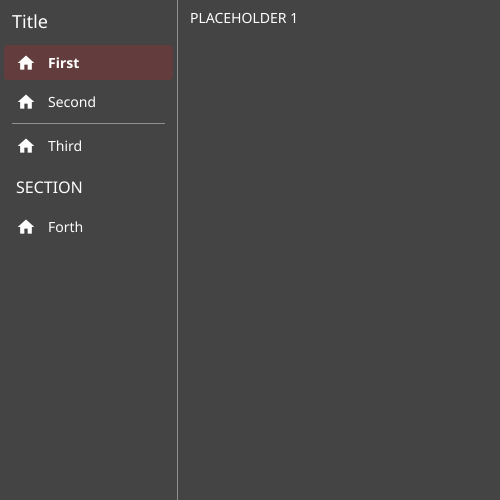
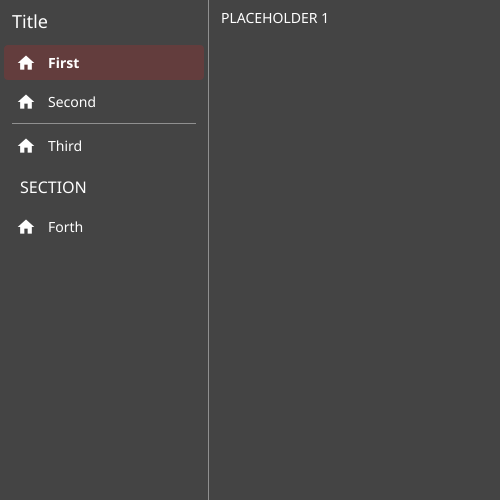
feat: use primarily custom corp wallet names (#197)

diff --git a/internal/app/ui/desktopui.go b/internal/app/ui/desktopui.go
@@ -74,8 +74,8 @@ func NewDesktopUI(bu *baseUI) *DesktopUI {
 	}
 
 	u.defineShortcuts()
-	characterPageBars := newPageBarCollectionForCharacters(u)
-	corporationPageBars := newPageBarCollectionForCorporations(u)
+	characterPageBars := NewPageBarCollectionForCharacters(u)
+	corporationPageBars := NewPageBarCollectionForCorporations(u)
 
 	formatBadge := func(v, mx int) string {
 		if v == 0 {
@@ -220,23 +220,12 @@ func NewDesktopUI(bu *baseUI) *DesktopUI {
 	homeNav.MinWidth = minNavCharacterWidth
 
 	// current character
-	makePageWithPageBarForCharacter := func(title string, content fyne.CanvasObject, buttons ...*widget.Button) fyne.CanvasObject {
-		bar := characterPageBars.NewPageBar(title, buttons...)
-		return container.NewBorder(
-			bar,
-			nil,
-			nil,
-			nil,
-			content,
-		)
-	}
-
 	var characterNav *iwidget.NavDrawer
 
 	characterMailNav := iwidget.NewNavPage(
 		"Mail",
 		theme.MailComposeIcon(),
-		makePageWithPageBarForCharacter("Mail", u.characterMail),
+		NewPageBarPage(characterPageBars, "Mail", u.characterMail),
 	)
 	u.characterMail.onUpdate = func(count int) {
 		fyne.Do(func() {
@@ -248,7 +237,7 @@ func NewDesktopUI(bu *baseUI) *DesktopUI {
 	characterCommunicationsNav := iwidget.NewNavPage(
 		"Communications",
 		theme.NewThemedResource(icons.MessageSvg),
-		makePageWithPageBarForCharacter("Communications", u.characterCommunications),
+		NewPageBarPage(characterPageBars, "Communications", u.characterCommunications),
 	)
 	u.characterCommunications.OnUpdate = func(count optional.Optional[int]) {
 		var s string
@@ -265,7 +254,8 @@ func NewDesktopUI(bu *baseUI) *DesktopUI {
 	characterSkillsNav := iwidget.NewNavPage(
 		"Skills",
 		theme.NewThemedResource(icons.SchoolSvg),
-		makePageWithPageBarForCharacter(
+		NewPageBarPage(
+			characterPageBars,
 			"Skills",
 			container.NewAppTabs(
 				container.NewTabItem("Training Queue", u.characterSkillQueue),
@@ -283,18 +273,18 @@ func NewDesktopUI(bu *baseUI) *DesktopUI {
 
 	characterWalletNav := iwidget.NewNavPage("Wallet",
 		theme.NewThemedResource(icons.CashSvg),
-		makePageWithPageBarForCharacter("Wallet", u.characterWallet),
+		NewPageBarPage(characterPageBars, "Wallet", u.characterWallet),
 	)
 	characterAssetsNav := iwidget.NewNavPage(
 		"Assets",
 		theme.NewThemedResource(icons.Inventory2Svg),
-		makePageWithPageBarForCharacter("Assets", u.characterAsset),
+		NewPageBarPage(characterPageBars, "Assets", u.characterAsset),
 	)
 	characterNav = iwidget.NewNavDrawer(
 		iwidget.NewNavPage(
 			"Character Sheet",
 			theme.NewThemedResource(icons.PortraitSvg),
-			makePageWithPageBarForCharacter("Character Sheet", container.NewAppTabs(
+			NewPageBarPage(characterPageBars, "Character Sheet", container.NewAppTabs(
 				container.NewTabItem("Character", u.characterSheet),
 				container.NewTabItem("Corporation", u.characterCorporation),
 				container.NewTabItem("Augmentations", u.characterAugmentations),
@@ -321,27 +311,23 @@ func NewDesktopUI(bu *baseUI) *DesktopUI {
 			characterNav.SetItemBadge(characterAssetsNav, s)
 		})
 	}
-	// Corporation
-	makePageWithPageBarForCorporation := func(title string, content fyne.CanvasObject, buttons ...*widget.Button) fyne.CanvasObject {
-		bar := corporationPageBars.NewPageBar(title, buttons...)
-		return container.NewBorder(
-			bar,
-			nil,
-			nil,
-			nil,
-			content,
-		)
-	}
 
+	// Corporation
 	walletsNav := iwidget.NewNavSectionLabel("Wallets")
 	corpWalletItems := []*iwidget.NavItem{walletsNav}
 	corporationWalletNavs := make(map[app.Division]*iwidget.NavItem)
+	corporationWalletPages := make(map[app.Division]*PageBarPage)
 	for _, d := range app.Divisions {
 		name := d.DefaultWalletName()
+		corporationWalletPages[d] = NewPageBarPage(
+			corporationPageBars,
+			name,
+			u.corporationWallets[d],
+		)
 		corporationWalletNavs[d] = iwidget.NewNavPage(
 			name,
 			theme.NewThemedResource(icons.CashSvg),
-			makePageWithPageBarForCorporation(name, u.corporationWallets[d]),
+			corporationWalletPages[d],
 		)
 		corpWalletItems = append(corpWalletItems, corporationWalletNavs[d])
 	}
@@ -352,7 +338,7 @@ func NewDesktopUI(bu *baseUI) *DesktopUI {
 				iwidget.NewNavPage(
 					"Corporation Sheet",
 					theme.NewThemedResource(icons.StarCircleOutlineSvg),
-					makePageWithPageBarForCorporation("Corporation Sheet", container.NewAppTabs(
+					NewPageBarPage(corporationPageBars, "Corporation Sheet", container.NewAppTabs(
 						container.NewTabItem("Corporation", u.corporationSheet),
 						container.NewTabItem("Members", u.corporationMember),
 					)),
@@ -365,9 +351,15 @@ func NewDesktopUI(bu *baseUI) *DesktopUI {
 	corporationNav.MinWidth = minNavCharacterWidth
 
 	for _, d := range app.Divisions {
-		u.corporationWallets[d].onUpdate = func(balance string) {
+		u.corporationWallets[d].onBalanceUpdate = func(balance string) {
 			fyne.Do(func() {
 				corporationNav.SetItemBadge(corporationWalletNavs[d], balance)
+			})
+		}
+		u.corporationWallets[d].onNameUpdate = func(name string) {
+			fyne.Do(func() {
+				corporationNav.SetItemText(corporationWalletNavs[d], name)
+				corporationWalletPages[d].SetTitle(name)
 			})
 		}
 	}

diff --git a/internal/app/ui/pagebar.go b/internal/app/ui/pagebar.go
@@ -9,11 +9,47 @@ import (
 	"fyne.io/fyne/v2/layout"
 	"fyne.io/fyne/v2/theme"
 	"fyne.io/fyne/v2/widget"
+	kwidget "github.com/ErikKalkoken/fyne-kx/widget"
+
 	"github.com/ErikKalkoken/evebuddy/internal/app"
 	"github.com/ErikKalkoken/evebuddy/internal/app/icons"
 	"github.com/ErikKalkoken/evebuddy/internal/fynetools"
-	kwidget "github.com/ErikKalkoken/fyne-kx/widget"
 )
+
+type pageBarCollection interface {
+	NewPageBar(title string, buttons ...*widget.Button) *pageBar
+}
+
+type PageBarPage struct {
+	widget.BaseWidget
+
+	pb      *pageBar
+	content fyne.CanvasObject
+}
+
+func NewPageBarPage(cpb pageBarCollection, title string, content fyne.CanvasObject, buttons ...*widget.Button) *PageBarPage {
+	a := &PageBarPage{
+		pb:      cpb.NewPageBar(title, buttons...),
+		content: content,
+	}
+	a.ExtendBaseWidget(a)
+	return a
+}
+
+func (a *PageBarPage) CreateRenderer() fyne.WidgetRenderer {
+	c := container.NewBorder(
+		a.pb,
+		nil,
+		nil,
+		nil,
+		a.content,
+	)
+	return widget.NewSimpleRenderer(c)
+}
+
+func (a *PageBarPage) SetTitle(text string) {
+	a.pb.SetTitle(text)
+}
 
 type pageBar struct {
 	widget.BaseWidget
@@ -36,6 +72,10 @@ func newPageBar(title string, icon fyne.Resource, buttons ...*widget.Button) *pa
 	}
 	w.ExtendBaseWidget(w)
 	return w
+}
+
+func (w *pageBar) SetTitle(text string) {
+	w.title.SetText(text)
 }
 
 func (w *pageBar) SetIcon(r fyne.Resource) {
@@ -63,7 +103,7 @@ type pageBarCollectionForCharacter struct {
 	u            *DesktopUI
 }
 
-func newPageBarCollectionForCharacters(u *DesktopUI) *pageBarCollectionForCharacter {
+func NewPageBarCollectionForCharacters(u *DesktopUI) *pageBarCollectionForCharacter {
 	fallback := icons.Characterplaceholder64Jpeg
 	icon, err := fynetools.MakeAvatar(fallback)
 	if err != nil {
@@ -120,7 +160,7 @@ type pageBarCollectionForCorporation struct {
 	u            *DesktopUI
 }
 
-func newPageBarCollectionForCorporations(u *DesktopUI) *pageBarCollectionForCorporation {
+func NewPageBarCollectionForCorporations(u *DesktopUI) *pageBarCollectionForCorporation {
 	fallback := icons.Corporationplaceholder64Png
 	icon, err := fynetools.MakeAvatar(fallback)
 	if err != nil {

diff --git a/internal/widget/navdrawer.go b/internal/widget/navdrawer.go
@@ -84,11 +84,12 @@ func (w *NavDrawer) makeList() *widget.List {
 			spacer := canvas.NewRectangle(color.Transparent)
 			spacer.SetMinSize(fyne.NewSize(p, 1))
 			icon := widget.NewIcon(iconBlankSvg)
-			text := widget.NewLabel("Template")
+			title := widget.NewLabel("Template")
+			title.Truncation = fyne.TextTruncateEllipsis
 			badge := widget.NewLabel("999+")
 			return container.NewStack(
 				container.New(layout.NewCustomPaddedLayout(0, 0, p, p),
-					container.NewHBox(spacer, icon, text, layout.NewSpacer(), badge),
+					container.NewBorder(nil, nil, container.NewHBox(spacer, icon), badge, title),
 				),
 				container.New(layout.NewCustomPaddedLayout(0, 0, 2*p, 2*p),
 					widget.NewSeparator(),
@@ -110,11 +111,12 @@ func (w *NavDrawer) makeList() *widget.List {
 				separator.Hide()
 				main.Show()
 			}
-			box := main.(*fyne.Container).Objects[0].(*fyne.Container).Objects
+			border := main.(*fyne.Container).Objects[0].(*fyne.Container).Objects
+			title := border[0].(*widget.Label)
+			box := border[1].(*fyne.Container).Objects
 			spacer := box[0]
 			icon := box[1].(*widget.Icon)
-			title := box[2].(*widget.Label)
-			badge := box[4].(*widget.Label)
+			badge := border[2].(*widget.Label)
 			showIcon := func() {
 				var r fyne.Resource
 				if it.isDisabled {

diff --git a/internal/app/ui/mobileui.go b/internal/app/ui/mobileui.go
@@ -234,14 +234,13 @@ func NewMobileUI(bu *baseUI) *MobileUI {
 	corpWalletItems := make([]*iwidget.ListItem, 0)
 	corporationWalletNavs := make(map[app.Division]*iwidget.ListItem)
 	for _, d := range app.Divisions {
-		name := d.DefaultWalletName()
 		corporationWalletNavs[d] = iwidget.NewListItemWithIcon(
-			name,
+			d.DefaultWalletName(),
 			theme.NewThemedResource(icons.CashSvg),
 			func() {
 				corpNav.Push(
 					newCorpAppBar(
-						name,
+						corporationWalletNavs[d].Headline,
 						u.corporationWallets[d],
 					))
 			},
@@ -261,9 +260,15 @@ func NewMobileUI(bu *baseUI) *MobileUI {
 		},
 	)
 	for _, d := range app.Divisions {
-		u.corporationWallets[d].onUpdate = func(balance string) {
+		u.corporationWallets[d].onBalanceUpdate = func(balance string) {
 			fyne.Do(func() {
 				corporationWalletNavs[d].Supporting = balance
+				corpWalletList.Refresh()
+			})
+		}
+		u.corporationWallets[d].onNameUpdate = func(name string) {
+			fyne.Do(func() {
+				corporationWalletNavs[d].Headline = name
 				corpWalletList.Refresh()
 			})
 		}

diff --git a/internal/app/ui/corporationwallet.go b/internal/app/ui/corporationwallet.go
@@ -18,7 +18,8 @@ import (
 type corporationWallet struct {
 	widget.BaseWidget
 
-	onUpdate func(balance string)
+	onBalanceUpdate func(balance string)
+	onNameUpdate    func(name string)
 
 	balance      *widget.Label
 	division     app.Division
@@ -92,8 +93,8 @@ func (a *corporationWallet) updateBalance() {
 	} else {
 		s = ihumanize.Number(balance, 1)
 	}
-	if a.onUpdate != nil {
-		a.onUpdate(s)
+	if a.onBalanceUpdate != nil {
+		a.onBalanceUpdate(s)
 	}
 	fyne.Do(func() {
 		a.balance.Text = t
@@ -119,12 +120,18 @@ func (a *corporationWallet) updateName() {
 		}
 	}
 	if !hasData || name == "" || err != nil {
+		name = a.division.DefaultWalletName()
 		fyne.Do(func() {
 			a.name.Hide()
 		})
+	} else {
+		fyne.Do(func() {
+			a.name.SetText(a.division.DefaultWalletName())
+			a.name.Show()
+		})
 	}
-	fyne.Do(func() {
-		a.name.SetText(name)
-		a.name.Show()
-	})
+	if a.onNameUpdate != nil {
+		a.onNameUpdate(name)
+	}
+
 }

diff --git a/internal/widget/navdrawer_test.go b/internal/widget/navdrawer_test.go
@@ -18,6 +18,7 @@ func TestNavDrawer_CanCreateBasic(t *testing.T) {
 	drawer := iwidget.NewNavDrawer(
 		iwidget.NewNavPage("First", theme.HomeIcon(), widget.NewLabel("PLACEHOLDER 1")),
 	)
+	drawer.MinWidth = 200
 	w := test.NewWindow(drawer)
 	defer w.Close()
 	w.Resize(fyne.NewSize(500, 500))
@@ -38,6 +39,7 @@ func TestNavDrawer_CanCreateFull(t *testing.T) {
 		iwidget.NewNavPage("Forth", theme.HomeIcon(), widget.NewLabel("PLACEHOLDER 4")),
 	)
 	drawer.Title = "Title"
+	drawer.MinWidth = 200
 	w := test.NewWindow(drawer)
 	defer w.Close()
 	w.Resize(fyne.NewSize(500, 500))
